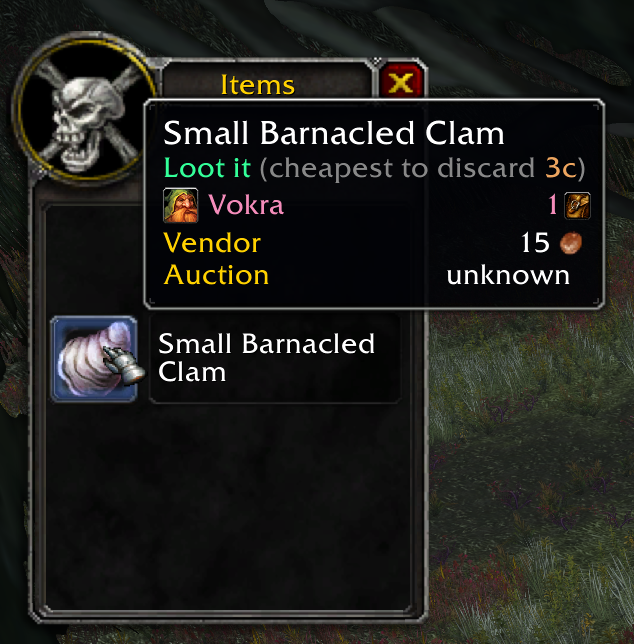
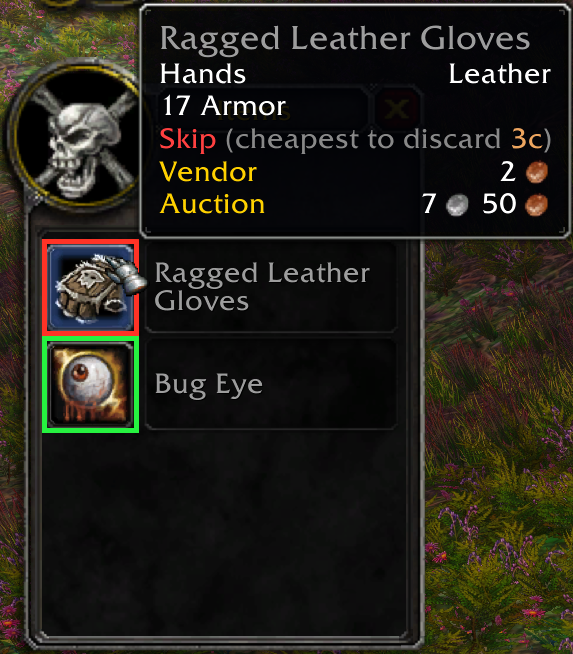
Document 1.2, and correct how worth is compared
The loot screenshot is replaced with one that also shows the coloured loot
rows, which the old single-item shot could not.

The CurseForge description still described the pre-1.1 comparison, where
ranking used stack totals but the loot verdict used per-item worth. Both sides
have been stack totals since 1.1, which is what the README already said.

diff --git a/docs/curseforge-description.md b/docs/curseforge-description.md
@@ -14,12 +14,13 @@ Standalone, no libraries required. [Auctionator](https://www.curseforge.com/wow/
 - **Junk and Ignored tabs.** Per-row removal and bulk resets. Nothing on these tabs touches your bags.
 - **Profiles.** Settings are account-wide; marks and the ignore list live in a shared **Default** profile or this character's own, with copy-in / copy-out buttons.
 - **Copyable diagnostic log**: debug output never goes to chat.
+- **English and German.** On a German client everything the addon shows is in German — icons, loot verdicts, dialogs, menus and settings. It follows the game's language by default, and a picker in the settings can override it either way — it offers to reload your interface, since a language cannot be swapped on an open window.
 
 Quest items are never suggested, never auto-sold and never deletable, even if marked.
 
 ## Worth calculation
 
-Items are ranked by real worth: vendor price, or the Auctionator AH price when *Suggest by AH* is enabled and data exists. Ranking uses the stack's total value, while the loot comparison uses per-item worth, so a stack of cheap junk no longer outranks a genuinely valuable single item.
+Items are ranked by real worth: vendor price, or the Auctionator AH price when *Suggest by AH* is enabled and data exists. Both sides of the comparison are measured as a **stack total**, because a bag slot holds a whole stack: destroying a slot costs you all of it, and looting one gains you all of it. A stack of 4 meat is judged as 4, against the full value of the stack you would discard.
 
 ## Slash command
 
@@ -27,7 +28,7 @@ Items are ranked by real worth: vendor price, or the Auctionator AH price when *
 
 ## Compatibility
 
-Built for WoW **Classic Era / Hardcore**, interface 11509 (patch 1.15.9). Compatible with Bagnon.
+Built for WoW **Classic Era / Hardcore**, interface 11509 (patch 1.15.9). Compatible with Bagnon. Available in English and German (enUS / deDE).
 
 ## Feedback
 

diff --git a/README.md b/README.md
@@ -26,7 +26,7 @@ auction-house value. Hover for the item tooltip and the available actions.
 
 - **Two floating icons**
   - **Junk**, the cheapest item you consider junk: gray (Poor) quality, plus anything you marked yourself.
-  - **Cheap!**, the cheapest *non-junk* item, shown independently. Stuff you never flagged that is
+  - **Normal**, the cheapest *non-junk* item, shown independently. Stuff you never flagged that is
     quietly worth less than your trash. Hidden when nothing qualifies.
 - **Icon interactions**
   - **Shift-left-click**, delete that item. Grays go instantly, whites raise Blizzard's confirm,
@@ -59,6 +59,11 @@ auction-house value. Hover for the item tooltip and the available actions.
   **Default** profile or in this character's own, picked from a dropdown. Both always exist, and
   *Copy from Default* / *Copy to Default* move entries between them.
 
+- **English and German**. The language follows the client by default; a picker in the settings
+  (*Automatic* / *English* / *Deutsch*) overrides it either way. Picking one asks before reloading
+  your interface, and declines while you are in combat. An untranslated line falls back to English
+  rather than rendering blank.
+
 Quest items are never suggested, never auto-sold and never deletable, even if marked.
 
 ## Screenshots
@@ -66,8 +71,8 @@ Quest items are never suggested, never auto-sold and never deletable, even if ma
 <table>
 <tr>
 <td width="50%" valign="top">
-<img src="docs/images/loot-verdict.png" alt="Loot tooltip verdict">
-<p>Hovering loot gives a verdict against your cheapest discardable item.</p>
+<img src="docs/images/loot-verdict.png" alt="Loot tooltip verdict and coloured loot rows">
+<p>Hovering loot gives a verdict against your cheapest discardable item, and every row is tinted green or red so the window reads at a glance.</p>
 </td>
 <td width="50%" valign="top">
 <img src="docs/images/context-menu.png" alt="Right-click context menu">

diff --git a/CHANGELOG.md b/CHANGELOG.md
@@ -1,5 +1,25 @@
 # Changelog
 
+## 1.2
+
+The addon now speaks German, and the second icon got a clearer name.
+
+- **German translation.** On a German client every line the addon shows you is in German: the two
+  icons and their tooltips, the loot verdicts, the comparison dialog, the context menu, all four
+  tabs, the settings and their explanations, and the confirmation dialogs. Nothing needs to be
+  switched on and no other client is affected — the language follows the game. Should a line ever
+  be missing a translation it simply shows in English instead of coming up blank.
+- **Language picker** in the settings. It sits above the profile section and offers *Automatic
+  (game language)*, *English* and *Deutsch*. Automatic is the default and is what you get without
+  touching anything; the other two override the client, so you can run a German game with the addon
+  in English or the other way round. The choice is account-wide. Because a language cannot be
+  swapped on a window that is already drawn, picking one asks whether to reload your interface and
+  then does it for you — cancel and nothing is changed at all. It refuses while you are in combat.
+- The **Cheap!** icon is now called **Normal**. It never meant "this is cheap", it means "this is
+  the cheapest item you did *not* flag as junk", and Junk / Normal are the two categories the rest
+  of the addon already used — the ignore list, its reset buttons and the comparison dialog all say
+  Junk and Normal. The icon now matches them.
+
 ## 1.1.1
 
 - Fixed: items being rolled for in a group no longer get a keep-or-discard verdict. While a green
